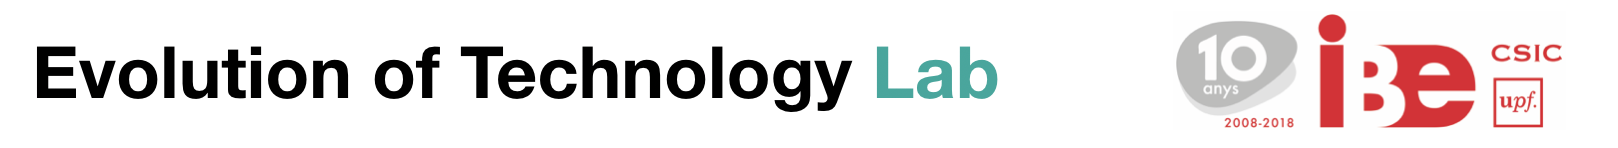
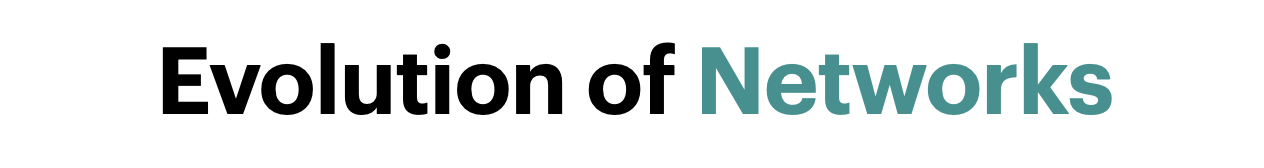
change lab name
change lab name.

Changed region(s): [[0.0, 0.0811, 0.9873, 0.8649]]

diff --git a/index.html b/index.html
@@ -29,9 +29,9 @@ td, th {
 
 <p><img src = "images/welcome.png"/></p>
     
- <p> The Evolution of Technology Lab (ETL) belongs to the Institute for Evolutionary Biology (IBE), and it is led by CSIC Tenured Scientist Sergi Valverde. The ETL develops theoretical models for the evolution of natural and artificial systems in the search for universal evolutionary principles, i.e., to understand the role played by emergence, convergence and environmental fluctuations in the origin of evolutionary innovations. Cultural and technological evolution depend on social learning, which provides a non-genetic pathway for the transmission of adaptive traits. We want to understand how the pattern and process of evolution differ when traits are learned rather than transmitted genetically. To do so, we rely in our expertise in complex systems, complex networks, theoretical ecology, and synthetic and computational biology.</p>
+ <p> Evolution of Networks belongs to the Institute for Evolutionary Biology (IBE). This group is led by CSIC Tenured Scientist Sergi Valverde, and studies natural and artificial networks in the search of universal evolutionary principles. We are interested in the role played by emergence, convergence and environmental fluctuations in the origin of evolutionary innovations, and how the pattern and process of evolution differs when traits are learned rather than transmitted genetically. Cultural evolution depend on social learning, which provides a non-genetic pathway for the transmission of adaptive traits. The group brings expertise in complex systems, complex networks, and theoretical ecology.</p>
         
-<p>Our lab offers different approaches to extend evolutionary theory beyond the original domain of biology. This effort depends on both empirical analysis and theoretical modelling. An unique approach of our lab is the complex networks perspective of the evolution of technology, which we have developed over the years (see our review paper <a href="http://rstb.royalsocietypublishing.org/content/371/1701/20150450">here</a>). We also develop systematic ways to recollect and analyse the rich fossil record of inventions. </p>    
+<p>We study different approaches to extend evolutionary theory beyond the  domain of biology. This effort depends on empirical analysis and theoretical modelling. An unique approach of our lab is the complex networks perspective of the evolution of culture, which we have developed over the years (see our review paper <a href="http://rstb.royalsocietypublishing.org/content/371/1701/20150450">here</a>). We also develop systematic ways to recollect and analyse the rich fossil record of inventions. </p>    
 
 
 <h2>Members</h2>
@@ -51,7 +51,6 @@ td, th {
 </table>
 
 
-
 <h2>External</h2>
 <table style="width:100%">
 <tr>
@@ -61,34 +60,9 @@ td, th {
 </tr>
 </table>    
     
-    
-<h2>Alumni</h2>
-<table style="width:100%">
-<tr>    
-    <td style="width:25%"><img src = "images/simon_carrignon.jpg"  style="float:center;"/> </td>
-    <td><h3>Simon Carrignon  (Former PhD Student)</h3>
-    </td>
-</tr>
-    
-<tr>
-    <td style="width:25%"><img src = "images/miguel_roman.png"  style="float:center;"/></td>    
-    
-    <td><h3>Miguel Roman Sánchez (Master Student)</h3>
-    <p>I am a Geneticist and MSc in Complex Systems Modelling interested in developing theoretical models for understanding the role of complexity in living systems. I feel especially motivated in studying Self-Organization and the intersection between Game Theory and Evolution. I am also interested in reverse-engineering Gene Regulatory Networks and their subsequent applications in Synthetic Biology, so my current research focuses on understanding the changes that miRNA regulatory networks undergo across development in insects.</p>
-    </td>
-</tr>
-   
-<tr>
-    <td style="width:25%"><img src = "images/ivan_ortiz.png"  style="float:center;"/></td>    
-    <td><h3>Ivan Ortiz Sánchez (Undergraduate Student)</h3>
-    <p>I am a last year undergraduate student of Biomedical Engineering and I am passionate about Physics, Biology and Mathematics. I am really interested in computational modeling and complex networks and in applying them to biological, social and cultural scenarios. Thus, I am keen on studying technological events from an evolutionary point of view. In particular, during my internship in the lab, I am focused on studying the mode and the tempo of cultural evolution in video games, with the aim of establishing linkages between video game performance and the characteristics of player communities.</p>
-     </td>
-</tr>
-</table>
-    
 
 <p>
-Keywords: Complex Systems, Complex Networks, Cultural Evolution, Ecological Networks, Artificial Life. 
+Keywords: Complex Systems, Complex Networks, Theoretical Ecology. 
 </p>
     
 </div><!-- /.blurb -->
